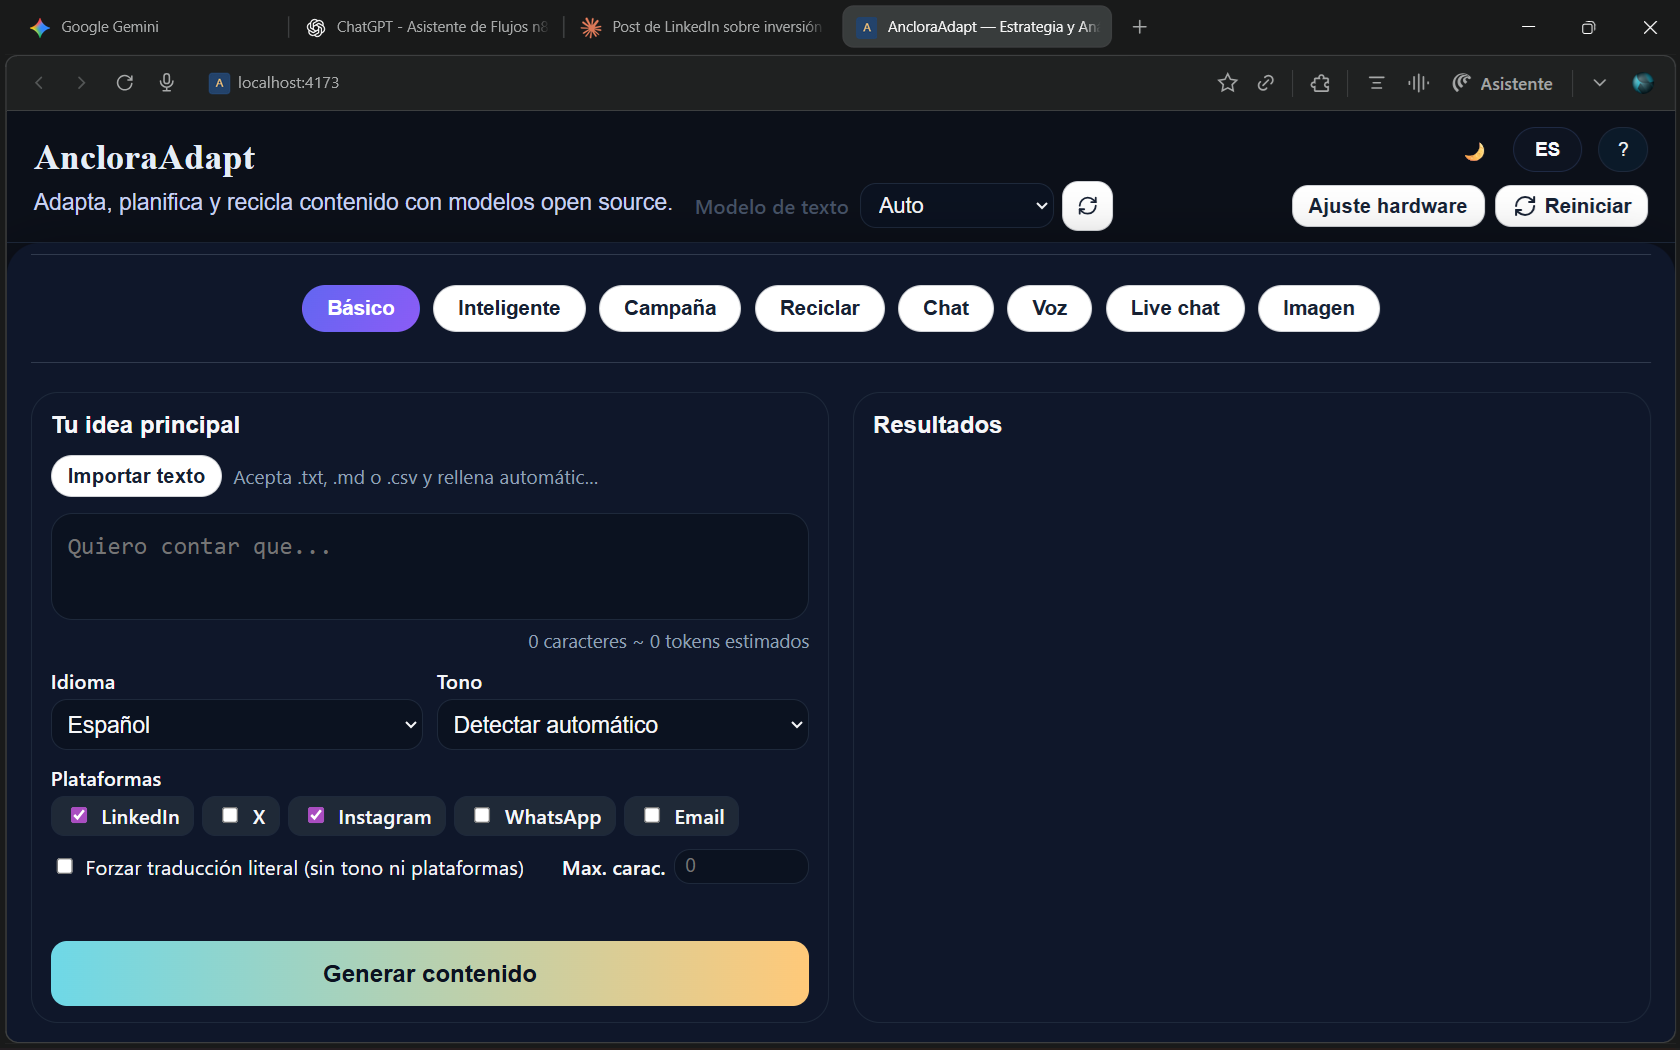
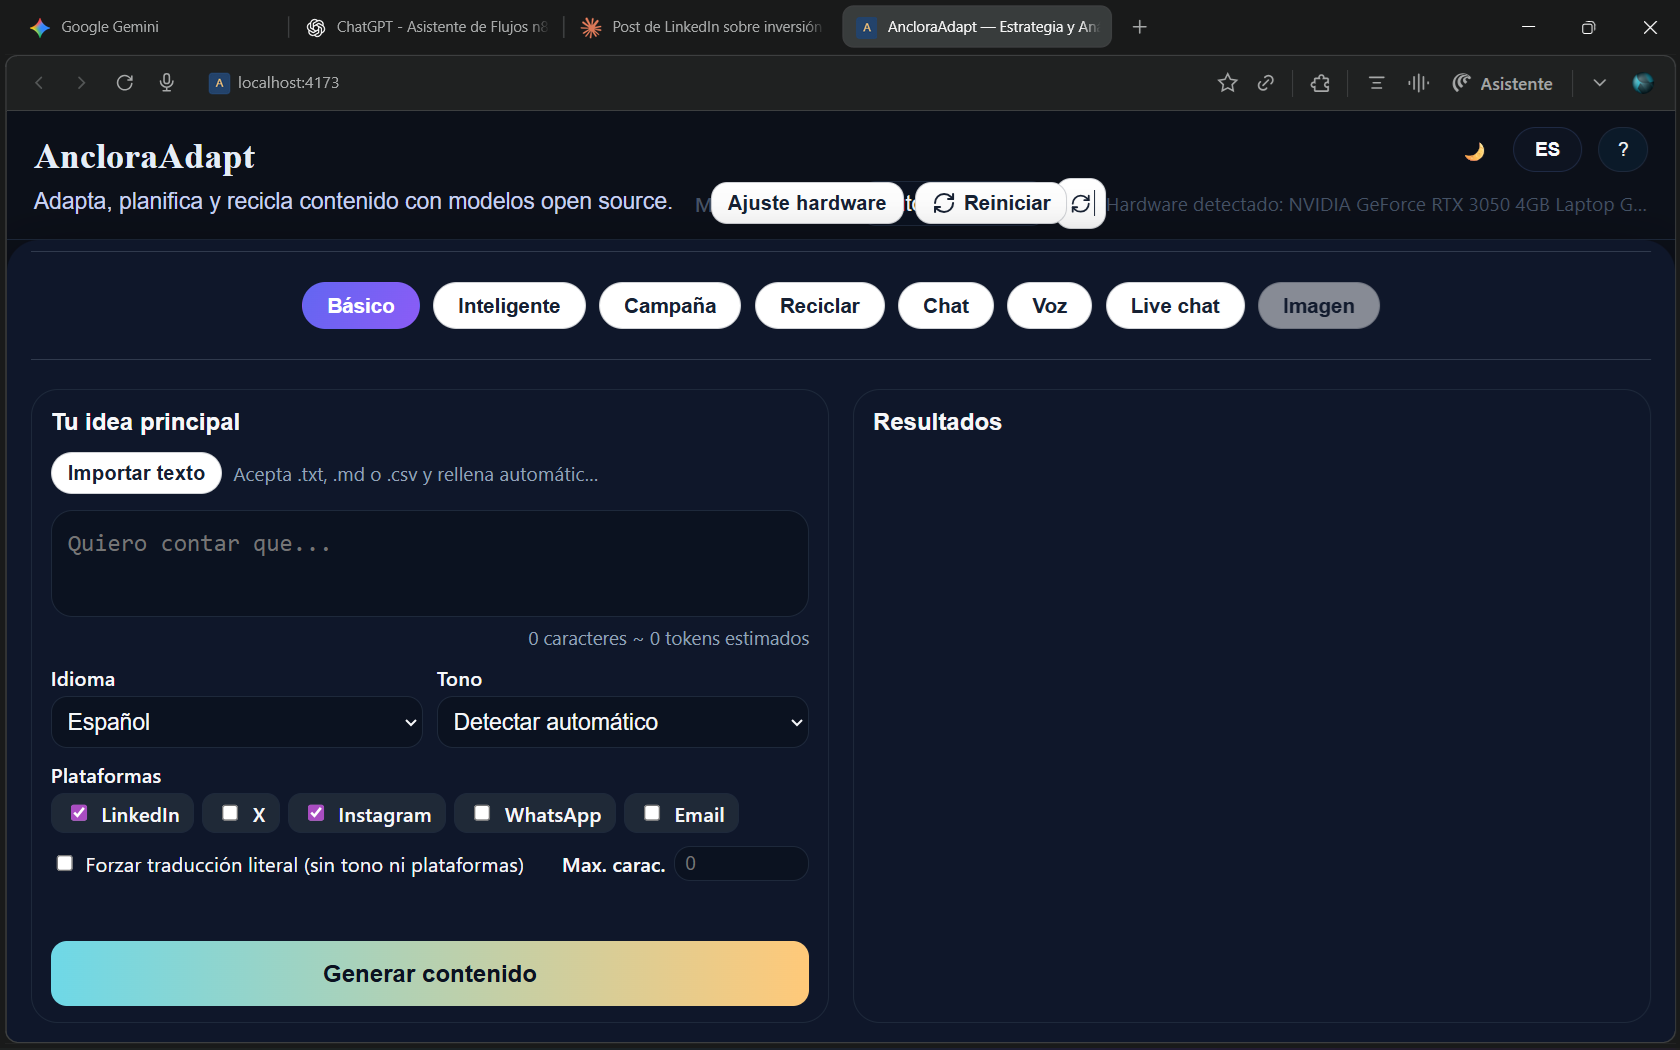
Solución Implementada
He restructurado la cabecera para que funcione correctamente de la siguiente manera:

  1. Estructura del Header (MainLayout.tsx)

  ┌─────────────────────────────────────────────────────────┐
  │ Fila 1: Título + Subtítulo | Tema · Idioma · Ayuda     │
  ├─────────────────────────────────────────────────────────┤
  │ Fila 2: Modelo Texto [Auto] [Refresh] | [Ajuste H] [R] │
  │         (Segunda línea SI hay info de hardware/modelo)   │
  │         Hardware: GPU · RAM | Modelo usado: X           │
  └─────────────────────────────────────────────────────────┘

  2. Cambios en commonStyles.ts:

  - header: Cambié alignItems: "center" a alignItems: "flex-start" para permitir que
  elementos ocupen múltiples líneas sin estar centrados
  - settingsBar: Permanece con flexWrap: "nowrap" para que selector y botones nunca hagan
  wrap entre ellos
  - settingsInfoRow: Configurado con overflow: "hidden" y textOverflow: "ellipsis" para que
  se trunce elegantemente sin crear scrolls

  3. Cambios en MainLayout.tsx:

  - Envuelvo settingsBar y settingsInfoRow en un contenedor flex-column con width: "100%"
  - Esto permite que settingsInfoRow aparezca en una segunda línea completa cuando hay
  información de hardware/modelo
  - La información se trunca con text-overflow: ellipsis si es muy larga, sin crear scrolls

  Resultado Final:

  ✅ Sin información de hardware: Solo se muestra la barra de configuración (1 línea)
[…]

diff --git a/src/components/layout/MainLayout.tsx b/src/components/layout/MainLayout.tsx
@@ -106,6 +106,7 @@ const MainLayout: React.FC<MainLayoutProps> = ({
             gap: "4px",
             flex: 1,
             minWidth: 0,
+            width: "100%",
           }}
         >
           <div
@@ -150,138 +151,120 @@ const MainLayout: React.FC<MainLayoutProps> = ({
           <div
             style={{
               display: "flex",
-              alignItems: "center",
-              gap: "12px",
+              flexDirection: "column",
               width: "100%",
+              gap: "2px",
               minWidth: 0,
-              flexWrap: "nowrap",
             }}
           >
-            <div style={{ ...commonStyles.settingsGroup, flex: 1, minWidth: 0 }}>
-              <label
-                htmlFor="text-model-select"
-                style={{ ...commonStyles.settingsLabel, flexShrink: 0 }}
-              >
-                {modelCopy.label || "Modelo Texto"}
-              </label>
-              <div
-                style={{
-                  display: "flex",
-                  alignItems: "center",
-                  gap: "6px",
-                  minWidth: 0,
-                }}
-              >
-                <select
-                  id="text-model-select"
-                  value={textModelId}
-                  onChange={(event) => onTextModelChange(event.target.value)}
+            <div style={commonStyles.settingsBar}>
+              <div style={{ ...commonStyles.settingsGroup, flex: 1, minWidth: 0 }}>
+                <label
+                  htmlFor="text-model-select"
+                  style={{ ...commonStyles.settingsLabel, flexShrink: 0 }}
+                >
+                  {modelCopy.label || "Modelo Texto"}
+                </label>
+                <div
                   style={{
-                    ...commonStyles.select,
-                    padding: "6px 10px",
-                    fontSize: "0.9em",
-                    flex: 1,
-                    minWidth: "140px",
-                    maxWidth: "240px",
+                    display: "flex",
+                    alignItems: "center",
+                    gap: "6px",
+                    minWidth: 0,
                   }}
                 >
-                  {modelOptions.map((model) => (
-                    <option key={model} value={model}>
-                      {model === "auto" ? modelCopy.auto || "Auto" : model}
-                    </option>
-                  ))}
-                </select>
+                  <select
+                    id="text-model-select"
+                    value={textModelId}
+                    onChange={(event) => onTextModelChange(event.target.value)}
+                    style={{
+                      ...commonStyles.select,
+                      padding: "6px 10px",
+                      fontSize: "0.9em",
+                      flex: 1,
+                      minWidth: "140px",
+                      maxWidth: "240px",
+                    }}
+                  >
+                    {modelOptions.map((model) => (
+                      <option key={model} value={model}>
+                        {model === "auto" ? modelCopy.auto || "Auto" : model}
+                      </option>
+                    ))}
+                  </select>
+                  <button
+                    type="button"
+                    style={{
+                      ...commonStyles.resetButton,
+                      padding: "6px 10px",
+                      width: "38px",
+                      height: "38px",
+                      display: "flex",
+                      alignItems: "center",
+                      justifyContent: "center",
+                      flexShrink: 0,
+                    }}
+                    onClick={() => void onRefreshModels()}
+                    disabled={isRefreshingModels}
+                    title={modelCopy.refresh}
+                    aria-label={modelCopy.refresh}
+                    aria-busy={isRefreshingModels}
+                  >
+                    <RefreshCw
+                      size={16}
+                      style={{
+                        color: "var(--tab-text, #162032)",
+                        animation: isRefreshingModels
+                          ? "spin 0.9s linear infinite"
+                          : undefined,
+                      }}
+                    />
+                  </button>
+                </div>
+              </div>
+
+              <div style={{ ...commonStyles.settingsActions, flexShrink: 0 }}>
                 <button
                   type="button"
                   style={{
                     ...commonStyles.resetButton,
-                    padding: "6px 10px",
-                    width: "38px",
-                    height: "38px",
-                    display: "flex",
-                    alignItems: "center",
-                    justifyContent: "center",
+                    padding: "6px 12px",
+                    fontSize: "0.85rem",
                     flexShrink: 0,
                   }}
-                  onClick={() => void onRefreshModels()}
-                  disabled={isRefreshingModels}
-                  title={modelCopy.refresh}
-                  aria-label={modelCopy.refresh}
-                  aria-busy={isRefreshingModels}
+                  onClick={() => void onHardwareAdjust()}
+                  disabled={isHardwareAdjusting}
+                  title={modelCopy.hardwareAdjust}
                 >
-                  <RefreshCw
-                    size={16}
-                    style={{
-                      color: "var(--tab-text, #162032)",
-                      animation: isRefreshingModels
-                        ? "spin 0.9s linear infinite"
-                        : undefined,
-                    }}
-                  />
+                  {isHardwareAdjusting
+                    ? modelCopy.hardwareAdjusting
+                    : modelCopy.hardwareAdjust}
+                </button>
+                <button
+                  type="button"
+                  style={{ ...commonStyles.resetButton, padding: "6px 12px", flexShrink: 0 }}
+                  onClick={onReset}
+                  title={modelCopy.reset}
+                  aria-label={modelCopy.reset}
+                >
+                  <RefreshCw size={18} />
+                  <span>
+                    {language === "es" ? "Reiniciar" : "Reset"}
+                  </span>
                 </button>
               </div>
             </div>
 
-            <div style={{ ...commonStyles.settingsActions, flexShrink: 0 }}>
-              <button
-                type="button"
-                style={{
-                  ...commonStyles.resetButton,
-                  padding: "6px 12px",
-                  fontSize: "0.85rem",
-                  flexShrink: 0,
-                }}
-                onClick={() => void onHardwareAdjust()}
-                disabled={isHardwareAdjusting}
-                title={modelCopy.hardwareAdjust}
-              >
-                {isHardwareAdjusting
-                  ? modelCopy.hardwareAdjusting
-                  : modelCopy.hardwareAdjust}
-              </button>
-              <button
-                type="button"
-                style={{ ...commonStyles.resetButton, padding: "6px 12px", flexShrink: 0 }}
-                onClick={onReset}
-                title={modelCopy.reset}
-                aria-label={modelCopy.reset}
-              >
-                <RefreshCw size={18} />
-                <span>
-                  {language === "es" ? "Reiniciar" : "Reset"}
-                </span>
-              </button>
-            </div>
-
             {(hardwareSummary ||
               (textModelId === AUTO_TEXT_MODEL_ID && lastModelUsed)) && (
-              <div
-                style={{
-                  display: "flex",
-                  alignItems: "center",
-                  gap: "8px",
-                  marginLeft: "8px",
-                  minWidth: 0,
-                  paddingLeft: "8px",
-                  borderLeft: "1px solid var(--panel-border, #1e293b)",
-                  fontSize: "0.8rem",
-                  color: "var(--texto-muted, #475467)",
-                  whiteSpace: "nowrap",
-                  overflow: "hidden",
-                  textOverflow: "ellipsis",
-                  flex: "0 1 auto",
-                }}
-              >
+              <div style={commonStyles.settingsInfoRow}>
                 {hardwareSummary && (
-                  <span style={{ whiteSpace: "nowrap", overflow: "hidden", textOverflow: "ellipsis" }}>
+                  <span style={commonStyles.settingsHint}>
                     {(modelCopy.hardwareDetected || "Hardware detectado")}: {hardwareSummary}
                   </span>
                 )}
-                {hardwareSummary && textModelId === AUTO_TEXT_MODEL_ID && lastModelUsed && (
-                  <span style={{ whiteSpace: "nowrap" }}>·</span>
-                )}
                 {textModelId === AUTO_TEXT_MODEL_ID && lastModelUsed && (
-                  <span style={{ whiteSpace: "nowrap", overflow: "hidden", textOverflow: "ellipsis" }}>
+                  <span style={commonStyles.settingsHint}>
                     {(modelCopy.lastUsed || "Modelo usado")}: {lastModelUsed}
                   </span>
                 )}

diff --git a/src/styles/commonStyles.ts b/src/styles/commonStyles.ts
@@ -14,9 +14,9 @@ const commonStyles: Record<string, React.CSSProperties> = {
     padding: "12px 20px 8px",
     display: "flex",
     justifyContent: "space-between",
-    alignItems: "center",
+    alignItems: "flex-start",
     gap: "16px",
-    flexWrap: "nowrap",
+    flexWrap: "wrap",
     borderBottom: "1px solid var(--panel-border, #1e293b)",
     minWidth: 0,
   },
@@ -478,14 +478,16 @@ const commonStyles: Record<string, React.CSSProperties> = {
     width: "100%",
     display: "flex",
     alignItems: "center",
-    gap: "12px",
+    gap: "16px",
     flexWrap: "nowrap",
-    marginTop: "4px",
-    fontSize: "0.85rem",
+    marginTop: "6px",
+    fontSize: "0.8rem",
     color: "var(--texto-muted, #475467)",
     minHeight: "20px",
     whiteSpace: "nowrap",
     overflow: "hidden",
+    textOverflow: "ellipsis",
+    flexShrink: 0,
   },
   settingsHint: {
     fontSize: "0.8rem",
@@ -493,6 +495,8 @@ const commonStyles: Record<string, React.CSSProperties> = {
     whiteSpace: "nowrap",
     overflow: "hidden",
     textOverflow: "ellipsis",
+    minWidth: 0,
+    flex: "1 1 auto",
   },
   settingsLabel: {
     fontSize: "0.85rem",
